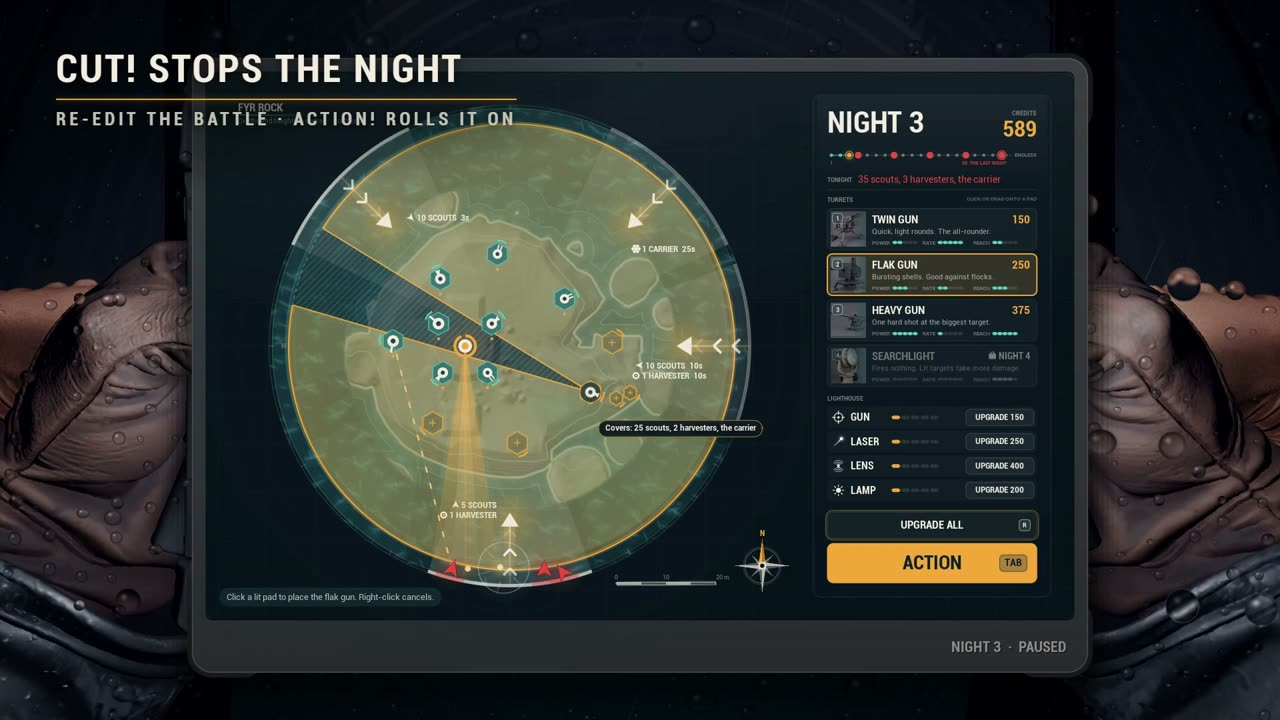
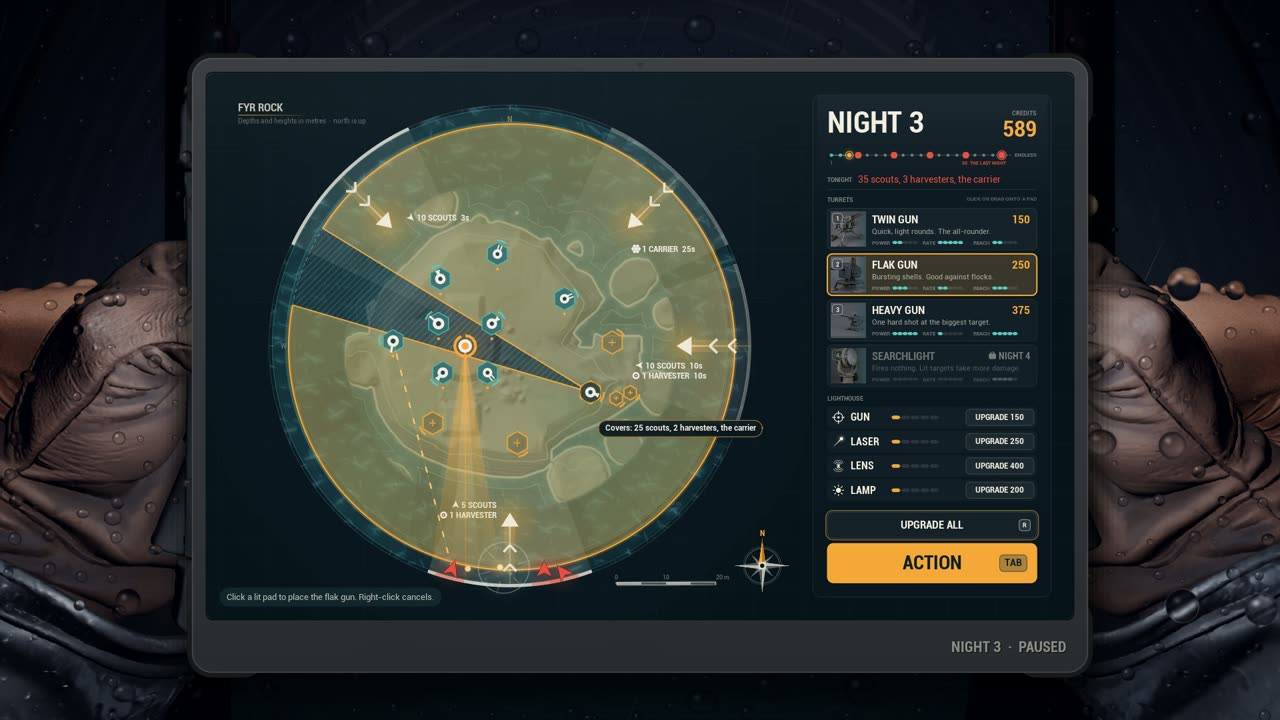
The tablet picture without the old caption

diff --git a/2026-11-14-2035-the-gameplay-video.html b/2026-11-14-2035-the-gameplay-video.html
@@ -82,9 +82,9 @@
 <p>The takes were filmed by the game itself, off screen and frame by frame, as described in the last entry: every frame is exactly one thirtieth of a second of game time, and the game's own mix is recorded beside the frames, so picture and sound stay in sync. The game's test bot worked the stations, and short test scripts set up each take (which night, the credits for the turrets, when to call CUT). The last entry said the video would be recorded from the packaged game. It was not: the packaged game has neither the console the scripts need nor the frame recorder, so the takes ran in the development build of the same code.</p>
 <p>Five takes were recorded, about seven minutes of game in all: the first night from the hut at dusk, two clear nights, a night in the storm, and the fourth night with its mothership and the first ending. Twenty-one spans were cut from them, with hard cuts and a 40 ms sound fade at each:</p>
 <ol><li>The great lens burns a carrier, and it breaks up in fire.</li><li>The hut: the plan on the PC, a Twin Gun placed with its arc of fire.</li><li>READY: out of the door and up to the tower, ACTION! at the gun.</li><li>The gun at dusk, the laser on a flock, the lens through another, and the turrets firing on their own.</li><li>CUT!: time stops, the tablet comes up, a Flak Gun is bought onto a pad, ACTION.</li><li>The fourth night: the lens on the mothership, then the drone filming the keeper as he fires the rocket, and the ship breaking up and falling into the sea.</li><li>The walk home, the projector, the chair, and the night replayed on the hut's wall.</li></ol>
-<p>Gameplay shows from the first frame. A title and seven short captions sit over the gameplay, never over black: PLAN THE NIGHT AT THE PC, WALK OUT TO THE LIGHTHOUSE, DEFEND THE LAMP, YOUR TURRETS FIRE ON THEIR OWN, CUT! STOPS THE NIGHT, EVERY FOURTH NIGHT, A MOTHERSHIP, and THEN WALK HOME. They are set in the engine's own Roboto Bold Condensed and were rendered with HyperFrames as a transparent layer. Their spelling was checked in a still at each one. Under the first night runs the game's own boss music, 8 dB down. The sound was brought to -14 LUFS with a true peak of -2.7 dB, measured on the finished file. The developer checks the video and uploads it himself.</p>
+<p>Gameplay shows from the first frame. A title and seven short captions sit over the gameplay, never over black: PLAN THE NIGHT AT THE PC, WALK OUT TO THE LIGHTHOUSE, DEFEND THE LAMP, YOUR TURRETS FIRE ON THEIR OWN, PAUSE THE FIGHT ANY TIME, EVERY FOURTH NIGHT, A MOTHERSHIP, and THEN WALK HOME. They are set in the engine's own Roboto Bold Condensed and were rendered with HyperFrames as a transparent layer. Their spelling was checked in a still at each one. Under the first night runs the game's own boss music, 8 dB down. The sound was brought to -14 LUFS with a true peak of -2.7 dB, measured on the finished file. The developer checks the video and uploads it himself.</p>
 <figure id="fig-1"><a class="zoom" href="media/2026-11-14-1920-video-title.jpg"><img src="media/2026-11-14-1920-video-title.jpg" srcset="media/thumb/2026-11-14-1920-video-title.jpg 640w, media/2026-11-14-1920-video-title.jpg 1280w" sizes="(max-width: 44rem) 100vw, 64rem" alt="The video's first second: the great lens burns a carrier on the third night and it blows apart, the title over it. The lamp bar, the stations and the live map are the game's own screen." width="1280" height="720" loading="lazy" decoding="async"></a><figcaption aria-hidden="true">The video's first second: the great lens burns a carrier on the third night and it blows apart, the title over it. The lamp bar, the stations and the live map are the game's own screen.</figcaption></figure>
-<figure id="fig-2"><a class="zoom" href="media/2026-11-14-1920-video-cut.jpg"><img src="media/2026-11-14-1920-video-cut.jpg" srcset="media/thumb/2026-11-14-1920-video-cut.jpg 640w, media/2026-11-14-1920-video-cut.jpg 1280w" sizes="(max-width: 44rem) 100vw, 64rem" alt="CUT! in the video: time stopped and the keeper's tablet up, a Flak Gun picked, its arc of fire over the night's arrows; the caption is the video's." width="1280" height="720" loading="lazy" decoding="async"></a><figcaption aria-hidden="true">CUT! in the video: time stopped and the keeper's tablet up, a Flak Gun picked, its arc of fire over the night's arrows; the caption is the video's.</figcaption></figure>
+<figure id="fig-2"><a class="zoom" href="media/2026-11-14-1920-video-cut.jpg"><img src="media/2026-11-14-1920-video-cut.jpg" srcset="media/thumb/2026-11-14-1920-video-cut.jpg 640w, media/2026-11-14-1920-video-cut.jpg 1280w" sizes="(max-width: 44rem) 100vw, 64rem" alt="The pause in the video: time stopped and the keeper's tablet up, a Flak Gun picked, its arc of fire over the night's arrows. A frame from the recording itself, without the video's caption." width="1280" height="720" loading="lazy" decoding="async"></a><figcaption aria-hidden="true">The pause in the video: time stopped and the keeper's tablet up, a Flak Gun picked, its arc of fire over the night's arrows. A frame from the recording itself, without the video's caption.</figcaption></figure>
 <figure id="fig-3"><a class="zoom" href="media/2026-11-14-1920-video-wall.jpg"><img src="media/2026-11-14-1920-video-wall.jpg" srcset="media/thumb/2026-11-14-1920-video-wall.jpg 640w, media/2026-11-14-1920-video-wall.jpg 1280w" sizes="(max-width: 44rem) 100vw, 64rem" alt="The video's last shot but one: the keeper in his chair watches the drone's film of his own rocket on the hut's wall." width="1280" height="720" loading="lazy" decoding="async"></a><figcaption aria-hidden="true">The video's last shot but one: the keeper in his chair watches the drone's film of his own rocket on the hut's wall.</figcaption></figure>
 <p>Two shots that were planned could not be staged. A close laser cut &quot;in two&quot;: the bot only cuts saucers at long range, where the beam does not read. And a close look at the turrets: from the gun they cannot be seen, because the gun's lowest pitch is 12 degrees down and the gallery's brackets sit below it. The video shows the turrets' flak bringing down a flock beside the gun instead.</p>
 <h6 id="what-the-takes-caught">What the takes caught</h6>

diff --git a/index.html b/index.html
@@ -95,7 +95,7 @@
       <h2 class="section-title" id="pictures-title">Newest pictures from the running game</h2>
       <ul class="strip">
         <li><a class="zoom" href="media/2026-11-14-1920-video-wall.jpg"><img src="media/thumb/2026-11-14-1920-video-wall.jpg" alt="The video's last shot but one: the keeper in his chair watches the drone's film of his own rocket on the hut's wall." width="640" height="360" loading="lazy" decoding="async"></a><div class="cap"><p>The video's last shot but one: the keeper in his chair watches the drone's film of his own rocket on the hut's wall.</p><p class="from"><span class="kind">From the running game</span> <a href="2026-11-14-2035-the-gameplay-video.html#fig-3">Sat 14 Nov, 20:35</a></p></div></li>
-        <li><a class="zoom" href="media/2026-11-14-1920-video-cut.jpg"><img src="media/thumb/2026-11-14-1920-video-cut.jpg" alt="CUT! in the video: time stopped and the keeper's tablet up, a Flak Gun picked, its arc of fire over the night's arrows; the caption is the video's." width="640" height="360" loading="lazy" decoding="async"></a><div class="cap"><p>CUT! in the video: time stopped and the keeper's tablet up, a Flak Gun picked, its arc of fire over the night's arrows; the caption is the video's.</p><p class="from"><span class="kind">From the running game</span> <a href="2026-11-14-2035-the-gameplay-video.html#fig-2">Sat 14 Nov, 20:35</a></p></div></li>
+        <li><a class="zoom" href="media/2026-11-14-1920-video-cut.jpg"><img src="media/thumb/2026-11-14-1920-video-cut.jpg" alt="The pause in the video: time stopped and the keeper's tablet up, a Flak Gun picked, its arc of fire over the night's arrows. A frame from the recording itself, without the video's caption." width="640" height="360" loading="lazy" decoding="async"></a><div class="cap"><p>The pause in the video: time stopped and the keeper's tablet up, a Flak Gun picked, its arc of fire over the night's arrows. A frame from the recording itself, without the video's caption.</p><p class="from"><span class="kind">From the running game</span> <a href="2026-11-14-2035-the-gameplay-video.html#fig-2">Sat 14 Nov, 20:35</a></p></div></li>
         <li><a class="zoom" href="media/2026-11-14-1920-video-title.jpg"><img src="media/thumb/2026-11-14-1920-video-title.jpg" alt="The video's first second: the great lens burns a carrier on the third night and it blows apart, the title over it. The lamp bar, the stations and the live map are the game's own screen." width="640" height="360" loading="lazy" decoding="async"></a><div class="cap"><p>The video's first second: the great lens burns a carrier on the third night and it blows apart, the title over it. The lamp bar, the stations and the live map are the game's own screen.</p><p class="from"><span class="kind">From the running game</span> <a href="2026-11-14-2035-the-gameplay-video.html#fig-1">Sat 14 Nov, 20:35</a></p></div></li>
         <li><a class="zoom" href="media/2026-11-14-1344-launcher.jpg"><img src="media/thumb/2026-11-14-1344-launcher.jpg" alt="The drone's shot in a run at 13:44, two moments: the keeper on the gallery holding the launcher low across his hips, before the heave; and a moment after the shot, the rocket's flare out over the sea with sparks behind it, the keeper small on the gallery under the lit lamp. Frames from the run's contact sheet, at its small size." width="640" height="164" loading="lazy" decoding="async"></a><div class="cap"><p>The drone's shot in a run at 13:44, two moments: the keeper on the gallery holding the launcher low across his hips, before the heave; and a moment after the shot, the rocket's flare out over the sea with sparks behind it, the keeper small on the gallery under the lit lamp. Frames from the run's contact sheet, at its small size.</p><p class="from"><span class="kind">From the running game</span> <a href="2026-11-14-1435-the-keeper-learns-to-move.html#fig-4">Sat 14 Nov, 14:35</a></p></div></li>
         <li><a class="zoom" href="media/2026-11-14-1352-doorstep-boots.jpg"><img src="media/thumb/2026-11-14-1352-doorstep-boots.jpg" alt="Seen from a camera beside the doorstep, two moments of the generated walk a quarter of a second apart: one boot comes down onto the stone tread and stands on it, clear of the riser, while the other leg is in the air. Run at 13:52." width="640" height="210" loading="lazy" decoding="async"></a><div class="cap"><p>Seen from a camera beside the doorstep, two moments of the generated walk a quarter of a second apart: one boot comes down onto the stone tread and stands on it, clear of the riser, while the other leg is in the air. Run at 13:52.</p><p class="from"><span class="kind">From the running game</span> <a href="2026-11-14-1435-the-keeper-learns-to-move.html#fig-3">Sat 14 Nov, 14:35</a></p></div></li>

diff --git a/gallery.html b/gallery.html
@@ -165,7 +165,7 @@
         <h3><a href="2026-11-14-2035-the-gameplay-video.html"><time datetime="2026-11-14T20:35">20:35</time> <span>The gameplay video, and the faults its takes caught</span></a></h3>
         <ul class="tiles">
           <li class="tile" data-kind="game"><a class="zoom" href="media/2026-11-14-1920-video-title.jpg"><img src="media/thumb/2026-11-14-1920-video-title.jpg" alt="The video's first second: the great lens burns a carrier on the third night and it blows apart, the title over it. The lamp bar, the stations and the live map are the game's own screen." width="640" height="360" loading="lazy" decoding="async"></a><div class="cap"><p>The video's first second: the great lens burns a carrier on the third night and it blows apart, the title over it. The lamp bar, the stations and the live map are the game's own screen.</p><p class="from"><span class="kind">From the running game</span> <a href="2026-11-14-2035-the-gameplay-video.html#fig-1">Sat 14 Nov, 20:35</a></p></div></li>
-          <li class="tile" data-kind="game"><a class="zoom" href="media/2026-11-14-1920-video-cut.jpg"><img src="media/thumb/2026-11-14-1920-video-cut.jpg" alt="CUT! in the video: time stopped and the keeper's tablet up, a Flak Gun picked, its arc of fire over the night's arrows; the caption is the video's." width="640" height="360" loading="lazy" decoding="async"></a><div class="cap"><p>CUT! in the video: time stopped and the keeper's tablet up, a Flak Gun picked, its arc of fire over the night's arrows; the caption is the video's.</p><p class="from"><span class="kind">From the running game</span> <a href="2026-11-14-2035-the-gameplay-video.html#fig-2">Sat 14 Nov, 20:35</a></p></div></li>
+          <li class="tile" data-kind="game"><a class="zoom" href="media/2026-11-14-1920-video-cut.jpg"><img src="media/thumb/2026-11-14-1920-video-cut.jpg" alt="The pause in the video: time stopped and the keeper's tablet up, a Flak Gun picked, its arc of fire over the night's arrows. A frame from the recording itself, without the video's caption." width="640" height="360" loading="lazy" decoding="async"></a><div class="cap"><p>The pause in the video: time stopped and the keeper's tablet up, a Flak Gun picked, its arc of fire over the night's arrows. A frame from the recording itself, without the video's caption.</p><p class="from"><span class="kind">From the running game</span> <a href="2026-11-14-2035-the-gameplay-video.html#fig-2">Sat 14 Nov, 20:35</a></p></div></li>
           <li class="tile" data-kind="game"><a class="zoom" href="media/2026-11-14-1920-video-wall.jpg"><img src="media/thumb/2026-11-14-1920-video-wall.jpg" alt="The video's last shot but one: the keeper in his chair watches the drone's film of his own rocket on the hut's wall." width="640" height="360" loading="lazy" decoding="async"></a><div class="cap"><p>The video's last shot but one: the keeper in his chair watches the drone's film of his own rocket on the hut's wall.</p><p class="from"><span class="kind">From the running game</span> <a href="2026-11-14-2035-the-gameplay-video.html#fig-3">Sat 14 Nov, 20:35</a></p></div></li>
         </ul>
       </div>
